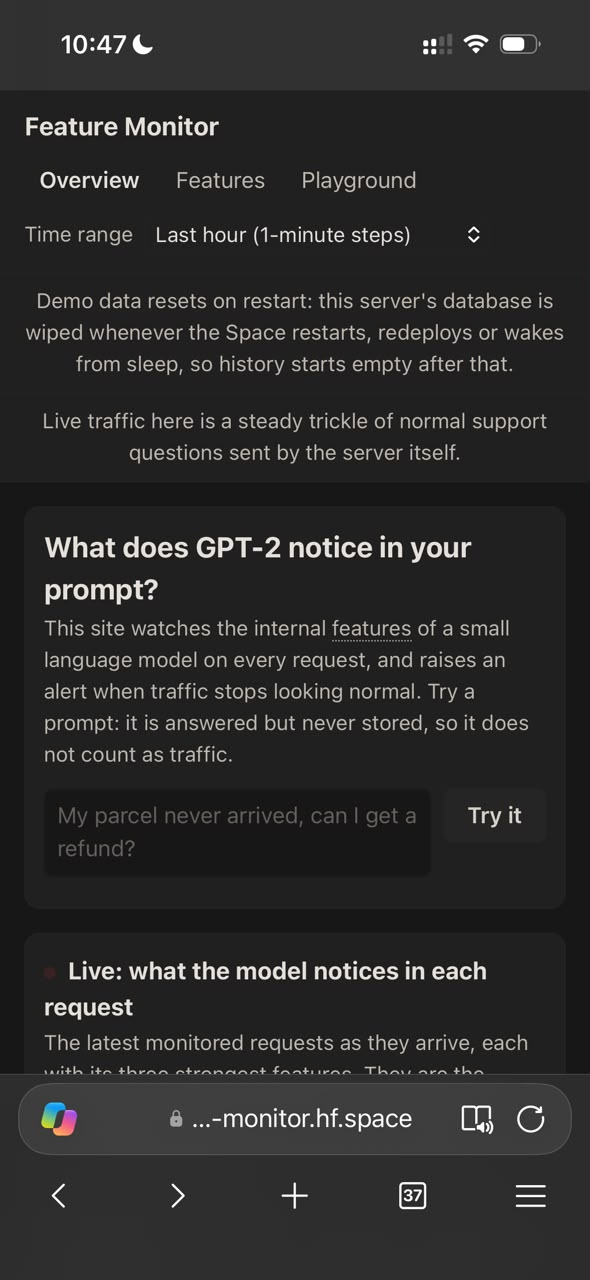
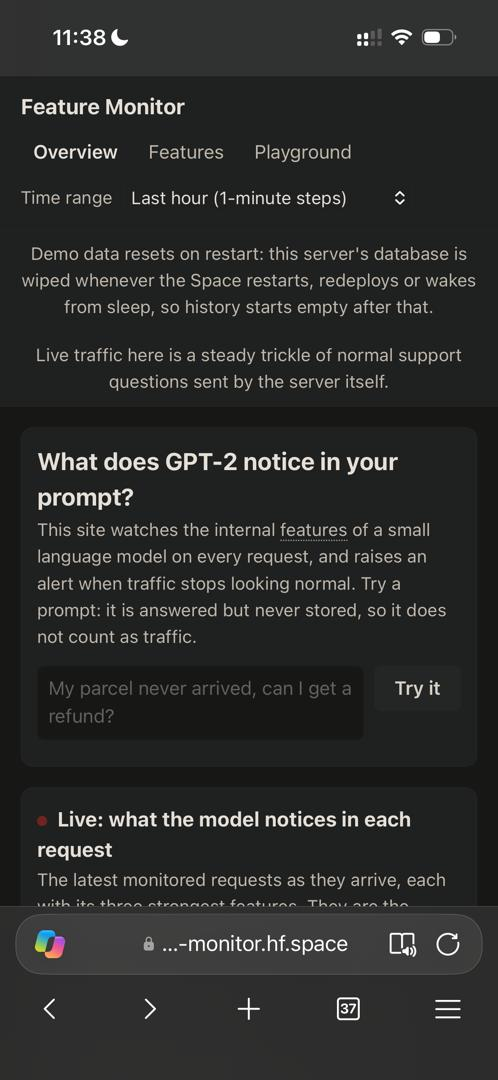
Chart end labels: a halo instead of a box, so lines stay visible
The boxes behind end labels hid data: the SAE line on the live chart and the
end of the replay's "with shift" line. Labels now get a thin halo in the
card's colour and keep the 16 px spreading. New top-of-overview screenshots.

diff --git a/frontend/common.js b/frontend/common.js
@@ -196,7 +196,7 @@ function baseOptions(xMin, xMax, yTitle) {
   };
 }
 
-// End labels sit at least this many px apart, each on a box of this height in the card's colour.
+// End labels sit at least this many px apart.
 const LABEL_GAP = 16;
 
 /** Move labels down where needed so each is at least `gap` px below the one above; keeps order. */
@@ -225,11 +225,14 @@ const endLabels = {
       const width = ctx.measureText(dataset.endLabel).width;
       labels.push({ text: dataset.endLabel, width, x: Math.min(last.x + 6, chartArea.right - width), y: last.y - 10 });
     });
-    // A box behind each label keeps lines (such as the dashed alarm level) from striking it through.
+    // A thin halo in the card's colour around each letter keeps lines (such as the dashed alarm
+    // level) from striking the text through, while lines passing under it stay visible.
+    ctx.strokeStyle = cssVar("--surface");
+    ctx.lineWidth = 4;
+    ctx.lineJoin = "round";
+    ctx.fillStyle = cssVar("--ink-2");
     for (const label of spreadLabels(labels, LABEL_GAP)) {
-      ctx.fillStyle = cssVar("--surface");
-      ctx.fillRect(label.x - 3, label.y - LABEL_GAP / 2, label.width + 6, LABEL_GAP);
-      ctx.fillStyle = cssVar("--ink-2");
+      ctx.strokeText(label.text, label.x, label.y);
       ctx.fillText(label.text, label.x, label.y);
     }
     ctx.restore();

diff --git a/README.md b/README.md
@@ -69,13 +69,13 @@ The charts show time up to now, so for a run from earlier in the day set **Time 
 
 ### What it looks like
 
-The live overview on the Space, 18 October (desktop, then phone). It opens with a "Try it" box that shows a prompt's five strongest features with how often each appears in normal traffic (`/dashboard/normal-rates`, per 1,000 baseline prompts), then a live feed of monitored requests as they arrive with their three strongest features. The feed only shows recorded traffic, so visitors' own prompts never appear in it; the labels are Neuronpedia's and some are loose (a typo-ridden shipping question picks up "Apple products").
+The live overview on the Space, 18 October (desktop, then phone). It opens with a "Try it" box that shows a prompt's five strongest features with how often each appears in normal traffic (`/dashboard/normal-rates`, per 1,000 baseline prompts), then a live feed of monitored requests as they arrive with their three strongest features. The feed only shows recorded traffic, so visitors' own prompts never appear in it; the labels are Neuronpedia's and some are loose ("wheree could i order…" picks up the word "Whe").
 
 ![Top of the live overview: try box and live feed](docs/images/overview-top.png)
 
 <img src="docs/images/overview-phone.jpg" alt="Top of the live overview on a phone" width="295">
 
-Next comes a recorded replay of `medical_ramp` (seed 0): the SAE score with the shift and for the same normal prompts without it, from `frontend/recorded_example.json`, which `uv run python -m eval.recorded_example` rebuilds from the saved results. (In these screenshots the dashed line still crosses the "no shift" label; that was fixed the same day.)
+Next comes a recorded replay of `medical_ramp` (seed 0): the SAE score with the shift and for the same normal prompts without it, from `frontend/recorded_example.json`, which `uv run python -m eval.recorded_example` rebuilds from the saved results. (This screenshot predates the label fixes: the dashed line still crosses "no shift".)
 
 ![Recorded replay on the live overview](docs/images/overview-replay.png)
 

diff --git a/docs/log.md b/docs/log.md
@@ -366,3 +366,4 @@ Still open: not seen in a browser here; the README screenshots predate these sec
 README screenshots of the live overview (desktop cropped to the page, plus a phone shot), replacing the "old layout" note. The screenshots showed two label clashes, now fixed in `common.js`: chart end labels get a box in the card's colour (the dashed alarm line ran through "no shift") and are pushed at least 16 px apart (on normal traffic "alarm level" and "SAE features" ended 2 px apart; that one predates the new overview). The feed's chips get a stronger outline, which was nearly invisible on a phone in dark mode. 2 new tests (266 pass); without the spreading one fails.
 Surprise: the normal pool includes real customer phrasing such as "help me getting a goddamn rebate" (Bitext); left as is, since it is what the monitor sees.
 Still open: the README screenshots predate the label fix.
+Follow-up the same day: the boxes behind the end labels hid data. On the live chart the SAE line (about 0.93 on normal traffic) disappeared behind the "alarm level" and "SAE features" boxes on a phone, and on the replay the "with shift" box covered the line's last stretch. Replaced the boxes with a thin halo around each letter in the card's colour (`strokeText` under `fillText`), keeping the 16 px spreading. Retook the top-of-overview screenshots (desktop and phone); the replay screenshot still predates the label fixes.
